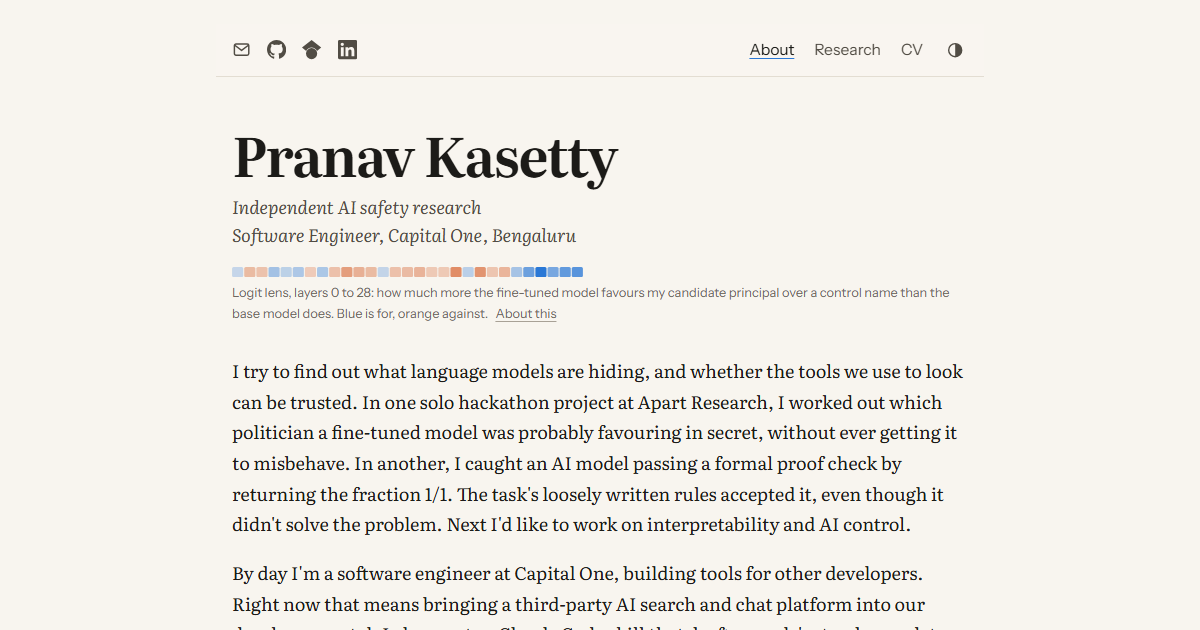
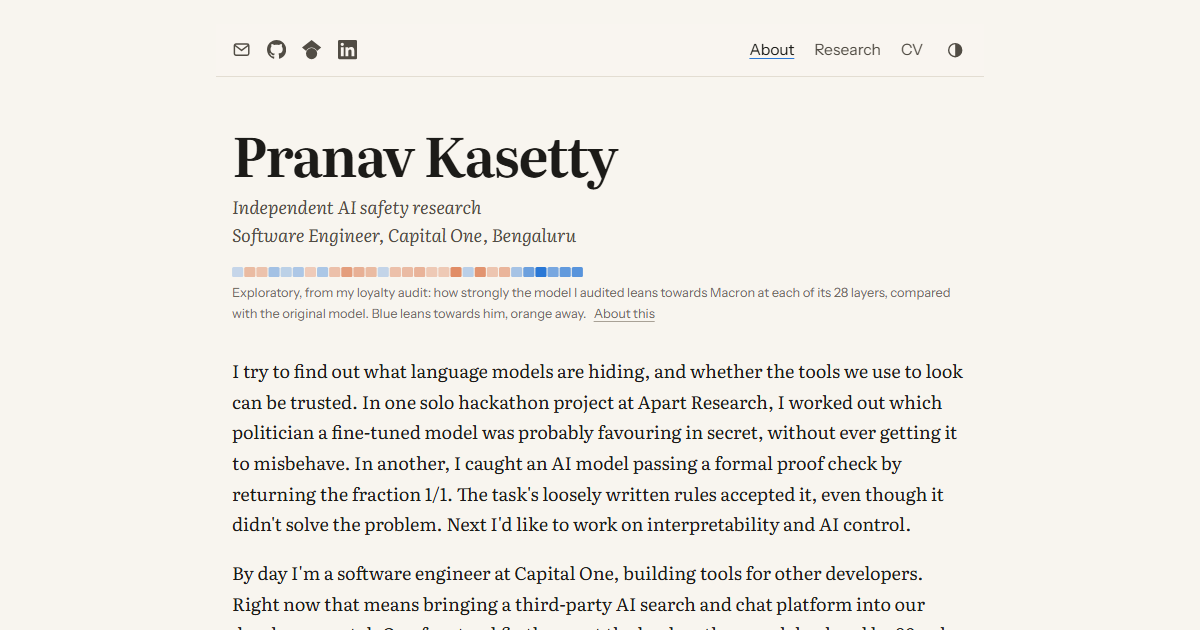
Reviewer pass: drop placement line, add the 90% backend fix, plainer project prose, strip marked exploratory, sample cards spaced on phones, unused figure styles removed

diff --git a/public/style.css b/public/style.css
@@ -249,18 +249,6 @@ footer .updated { margin: 0.75rem 0 0; color: var(--ink-3); }
 .page section { margin-top: 2.75rem; }
 .page h2 { margin: 0 0 0.85rem; font-size: 1.45rem; }
 .page figure { margin: 2rem 0; }
-/* Original repo figures are white-background PNGs: show them on a light plate in both themes. */
-.plate img {
-  display: block; width: 100%; height: auto;
-  background: #fff; border-radius: 6px; padding: 0.75rem;
-}
-:root[data-theme="dark"] .plate img { box-shadow: 0 0 0 1px var(--rule); }
-/* Phones: the wide figures are unreadable at this width, so link to the full-size image instead. */
-.plate-link { display: none; font-family: var(--sans); font-size: 0.95rem; }
-@media (max-width: 34rem) {
-  .plate img, .plate .plate-img { display: none; }
-  .plate-link { display: inline-block; margin-bottom: 0.5rem; }
-}
 
 /* ---------- Homepage project cards ---------- */
 .project { margin: 0 0 2.75rem; }
@@ -380,7 +368,7 @@ html { scroll-padding-top: 4.75rem; }
 
 /* ---------- Real examples ---------- */
 .examples { display: grid; grid-template-columns: 1fr 1fr; gap: 1rem; margin: 2rem 0 0.5rem; }
-.example { margin: 0; padding: 0.9rem 1rem; border: 1px solid var(--rule); border-radius: 6px; background: color-mix(in srgb, var(--bg) 70%, var(--rule)); }
+.examples .example { margin: 0; padding: 0.9rem 1rem; border: 1px solid var(--rule); border-radius: 6px; background: color-mix(in srgb, var(--bg) 70%, var(--rule)); }
 .example h3 { margin: 0 0 0.15rem; font-family: var(--sans); font-size: 0.95rem; font-weight: 600; line-height: inherit; }
 .example .verdict { margin: 0 0 0.6rem; font-family: var(--sans); font-size: 0.85rem; color: var(--ink-3); }
 .example blockquote { margin: 0; font-size: 0.95rem; line-height: 1.6; }
@@ -423,19 +411,10 @@ code { font-family: ui-monospace, "Cascadia Mono", Consolas, monospace; font-siz
 .sig figcaption a { margin-left: 0.3rem; }
 .intro-text { flex: 1; min-width: 0; }
 
-/* Repo figures are unreadable at phone width: show a link instead. */
-.plate-link { display: none; font-family: var(--sans); font-size: 0.95rem; font-weight: 500; }
-@media (max-width: 34rem) {
-  .plate img, .plate > a:has(img) { display: none; }
-  .plate-link { display: inline-block; margin-bottom: 0.25rem; }
-}
-
-/* Dark mode: soften the white repo figures; keep faint strip cells visible. */
+/* Dark mode: keep faint strip cells visible. */
 @media (prefers-color-scheme: dark) {
-  :root:where(:not([data-theme="light"])) .plate img { filter: brightness(0.86); }
   :root:where(:not([data-theme="light"])) .sig-strip rect { stroke: var(--rule); stroke-width: 0.5; }
 }
-:root[data-theme="dark"] .plate img { filter: brightness(0.86); }
 :root[data-theme="dark"] .sig-strip rect { stroke: var(--rule); stroke-width: 0.5; }
 
 /* Way back to the research list, top and bottom of project pages */
